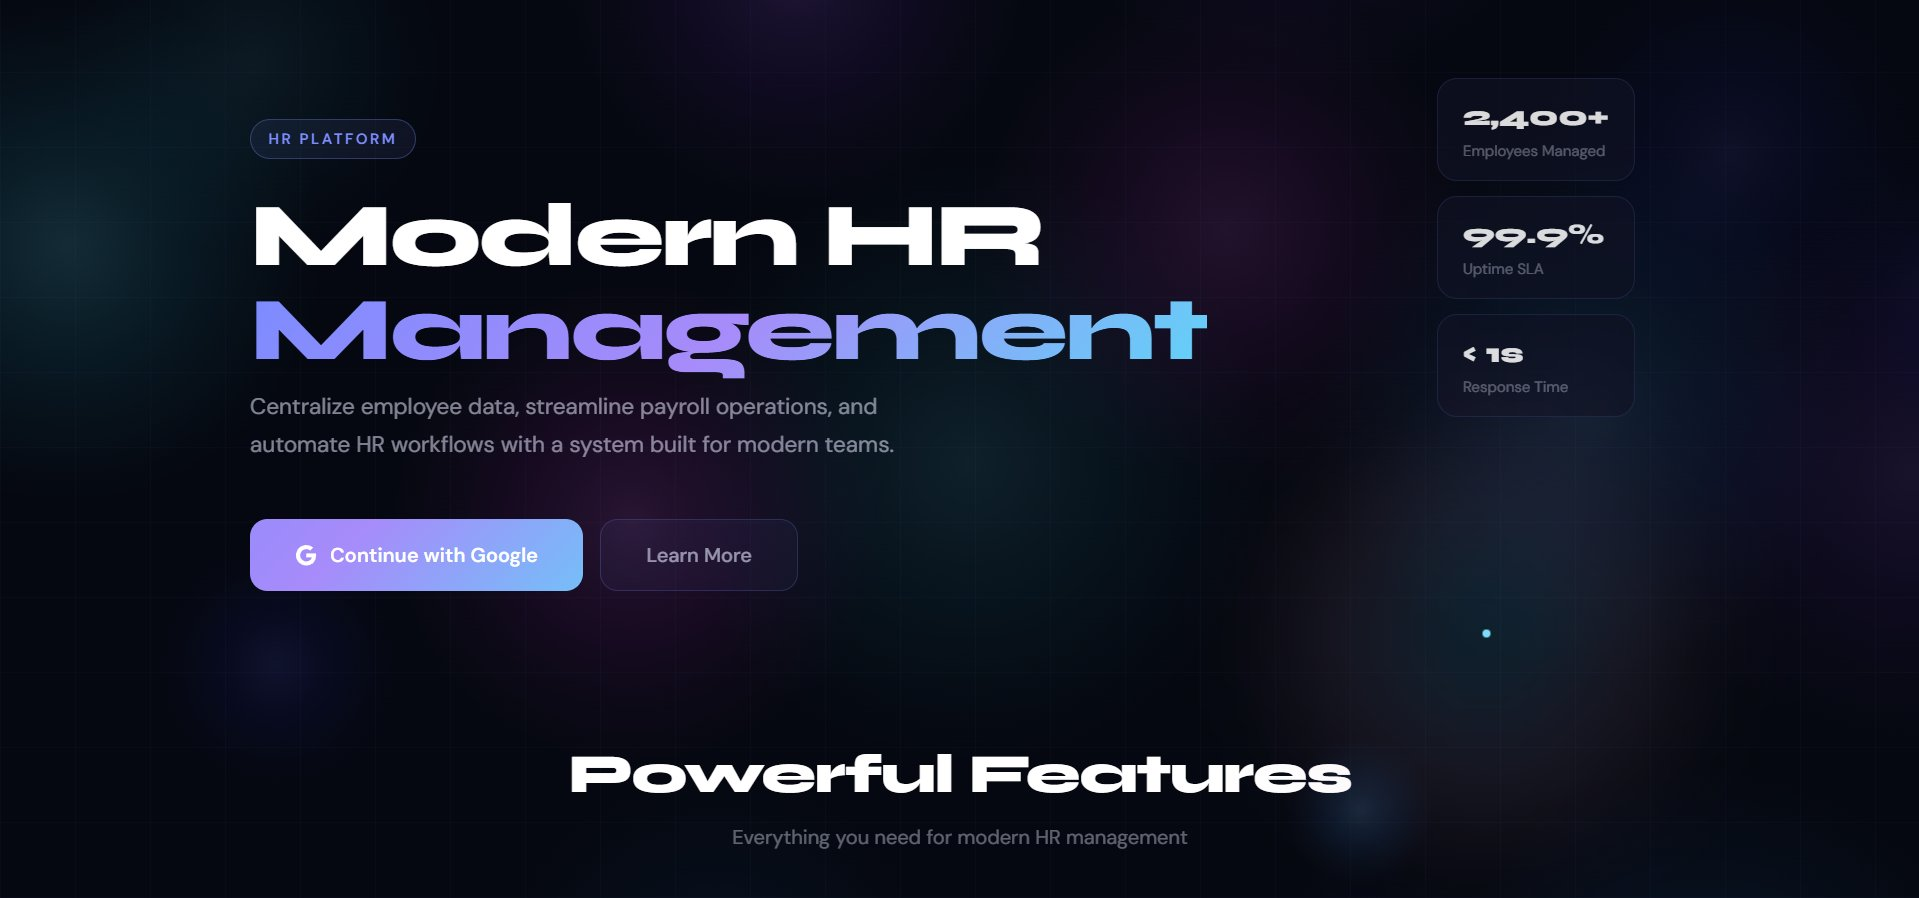
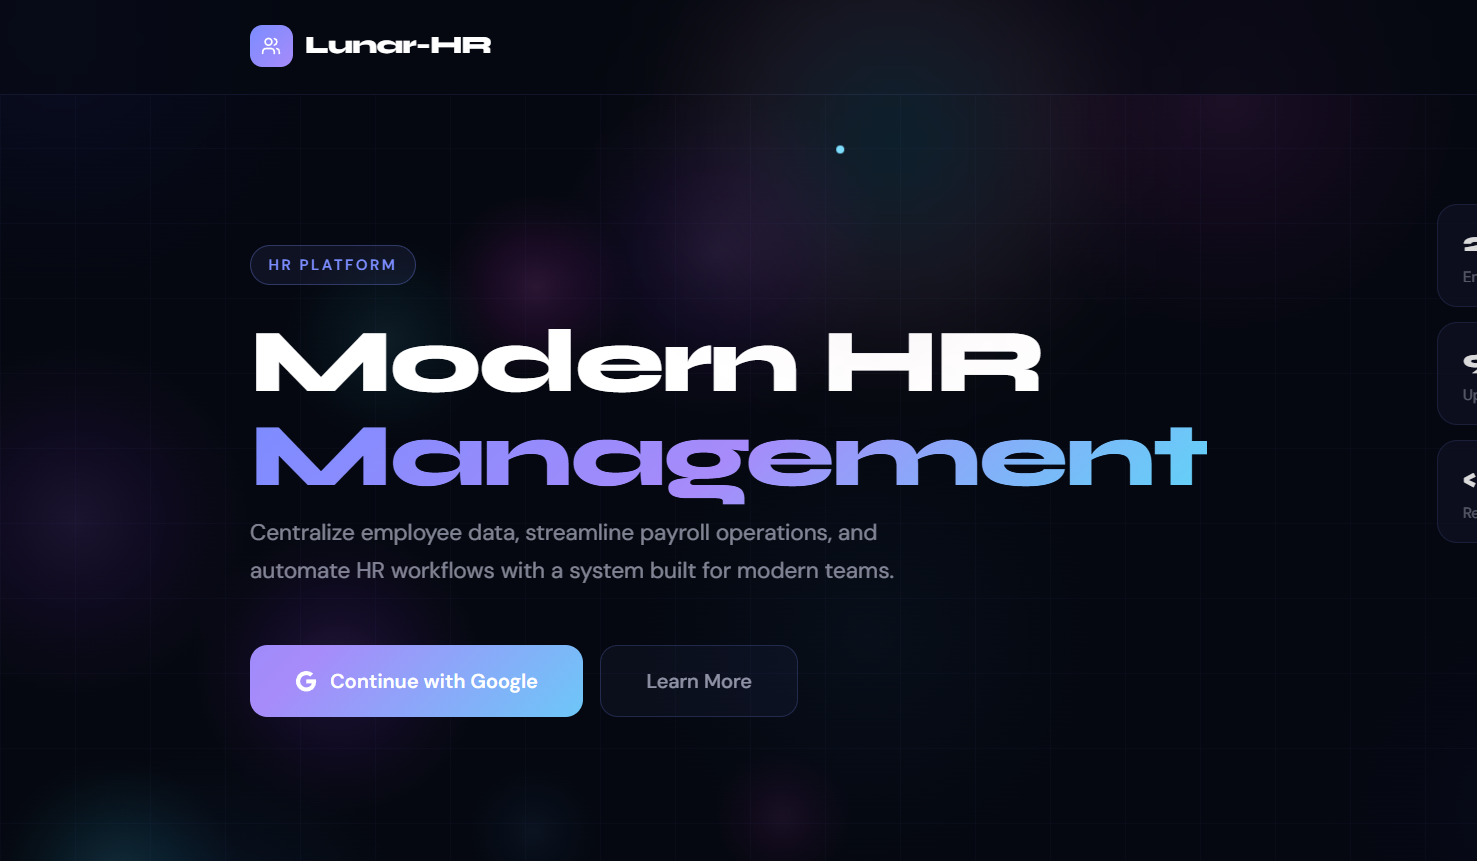
mobile UI updates

diff --git a/src/components/BackgroundGlow.tsx b/src/components/BackgroundGlow.tsx
@@ -1,16 +1,16 @@
-import React, { useEffect } from 'react';
+import React, { useEffect, useState } from 'react';
 import { motion, useSpring, useMotionValue, useVelocity, useTransform } from 'framer-motion';
 import styles from './BackgroundGlow.module.css';
 
 const BackgroundGlow: React.FC = () => {
+  const [isMobile, setIsMobile] = useState(false);
+
   const mouseX = useMotionValue(0);
   const mouseY = useMotionValue(0);
 
-  // Velocity to change size/stretch based on speed (signature antigravity effect)
   const xVelocity = useVelocity(mouseX);
   const yVelocity = useVelocity(mouseY);
-  
-  // Stretch based on movement speed
+
   const scaleX = useTransform(xVelocity, [-2000, 0, 2000], [1.5, 1, 1.5]);
   const scaleY = useTransform(yVelocity, [-2000, 0, 2000], [1.5, 1, 1.5]);
 
@@ -19,39 +19,53 @@ const BackgroundGlow: React.FC = () => {
   const glowY = useSpring(mouseY, springConfig);
 
   useEffect(() => {
+    const checkMobile = () => setIsMobile(window.innerWidth <= 768);
+    checkMobile();
+    window.addEventListener('resize', checkMobile);
+    return () => window.removeEventListener('resize', checkMobile);
+  }, []);
+
+  useEffect(() => {
+    if (isMobile) return;
     const handleMouseMove = (e: MouseEvent) => {
       mouseX.set(e.clientX);
       mouseY.set(e.clientY);
     };
-
     window.addEventListener('mousemove', handleMouseMove);
     return () => window.removeEventListener('mousemove', handleMouseMove);
-  }, [mouseX, mouseY]);
+  }, [isMobile, mouseX, mouseY]);
 
   return (
     <div className={styles.container}>
       <div className={styles.noise} />
-      
-      {/* The "Agent Spark" - Small, tight, very bright center */}
-      <motion.div
-        className={styles.spark}
-        style={{
-          x: glowX,
-          y: glowY,
-          translateX: '-50%',
-          translateY: '-50%',
-          scaleX,
-          scaleY,
-        }}
-      >
-        <div className={styles.sparkCore} />
-        <div className={styles.sparkInner} />
-        <div className={styles.sparkOuter} />
-      </motion.div>
 
-      {/* Subtle broad background gradients that shift slowly */}
+      {isMobile ? (
+        // On mobile: freely floating blob, no mouse tracking
+        <div className={styles.floatingBlob}>
+          <div className={styles.sparkCore} />
+          <div className={styles.sparkInner} />
+          <div className={styles.sparkOuter} />
+        </div>
+      ) : (
+        // On desktop: follows mouse
+        <motion.div
+          className={styles.spark}
+          style={{
+            x: glowX,
+            y: glowY,
+            translateX: '-50%',
+            translateY: '-50%',
+            scaleX,
+            scaleY,
+          }}
+        >
+          <div className={styles.sparkCore} />
+          <div className={styles.sparkInner} />
+          <div className={styles.sparkOuter} />
+        </motion.div>
+      )}
+
       <div className={styles.ambientGlow} />
-      
       <div className={styles.vignette} />
     </div>
   );

diff --git a/src/components/BackgroundGlow.module.css b/src/components/BackgroundGlow.module.css
@@ -17,6 +17,7 @@
   mix-blend-mode: overlay;
 }
 
+/* ── Desktop: mouse-following spark ── */
 .spark {
   position: absolute;
   width: 15vw;
@@ -28,6 +29,31 @@
   will-change: transform;
 }
 
+/* ── Mobile: freely floating blob ── */
+.floatingBlob {
+  position: absolute;
+  width: 60vw;
+  height: 60vw;
+  pointer-events: none;
+  z-index: 10;
+  top: 0;
+  left: 0;
+  animation: floatAround 12s ease-in-out infinite;
+  will-change: transform;
+}
+
+@keyframes floatAround {
+  0%   { transform: translate(10vw,  10vh); }
+  15%  { transform: translate(55vw,  20vh); }
+  30%  { transform: translate(70vw,  55vh); }
+  45%  { transform: translate(40vw,  75vh); }
+  60%  { transform: translate(10vw,  60vh); }
+  75%  { transform: translate(25vw,  30vh); }
+  90%  { transform: translate(60vw,  10vh); }
+  100% { transform: translate(10vw,  10vh); }
+}
+
+/* ── Shared glow layers ── */
 .sparkCore {
   position: absolute;
   inset: 45%;
@@ -72,11 +98,4 @@
     rgba(0, 0, 0, 0.25) 100%
   );
   z-index: 15;
-}
-
-@media (max-width: 768px) {
-  .spark {
-    width: 40vw;
-    height: 40vw;
-  }
 }

diff --git a/src/data/projects.ts b/src/data/projects.ts
@@ -14,7 +14,7 @@ export const projects: Project[] = [
   {
     title: 'Lunar-HR',
     description:
-      'A full-stack HR management SaaS built by an AI agent (Manus). Production-grade monorepo with a React frontend and Express/tRPC backend, backed by MySQL via Drizzle ORM.',
+      'A full-stack HR management SaaS with a React frontend and Express/tRPC backend, backed by MySQL via Drizzle ORM. Features employee data management, payroll operations, and streamlined HR workflows.',
     image: 'linear-gradient(135deg, #1a1040 0%, #2d1b69 40%, #4c2896 70%, #6d3fc2 100%)',
     thumbnail: lunarHrImg,
     github: 'https://github.com/summmz/Lunar-HR',
